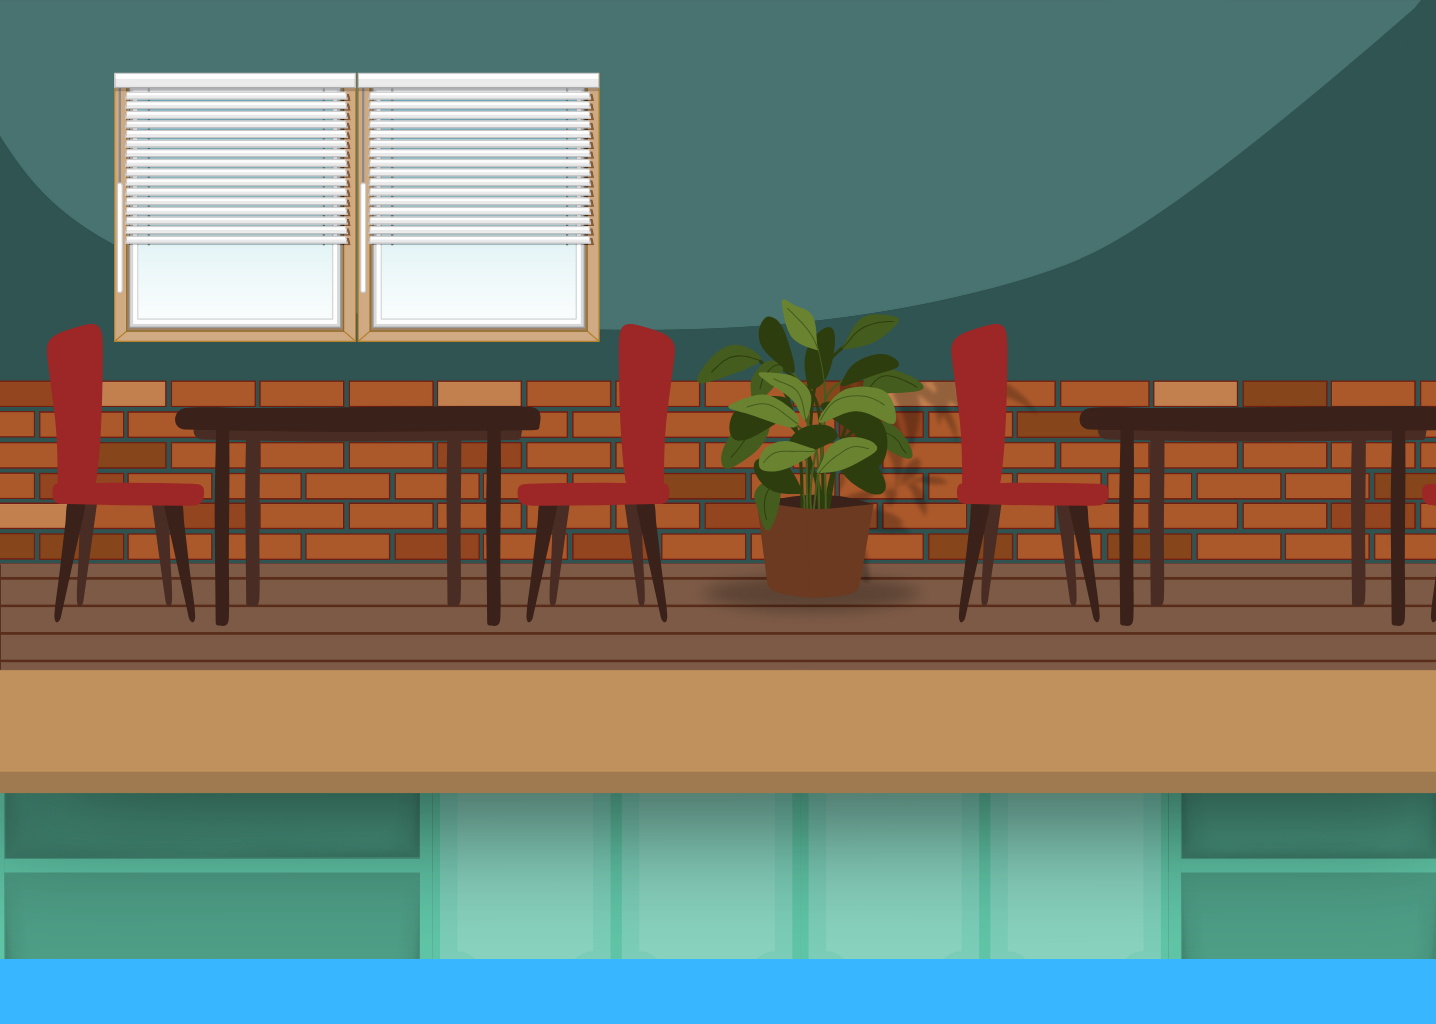
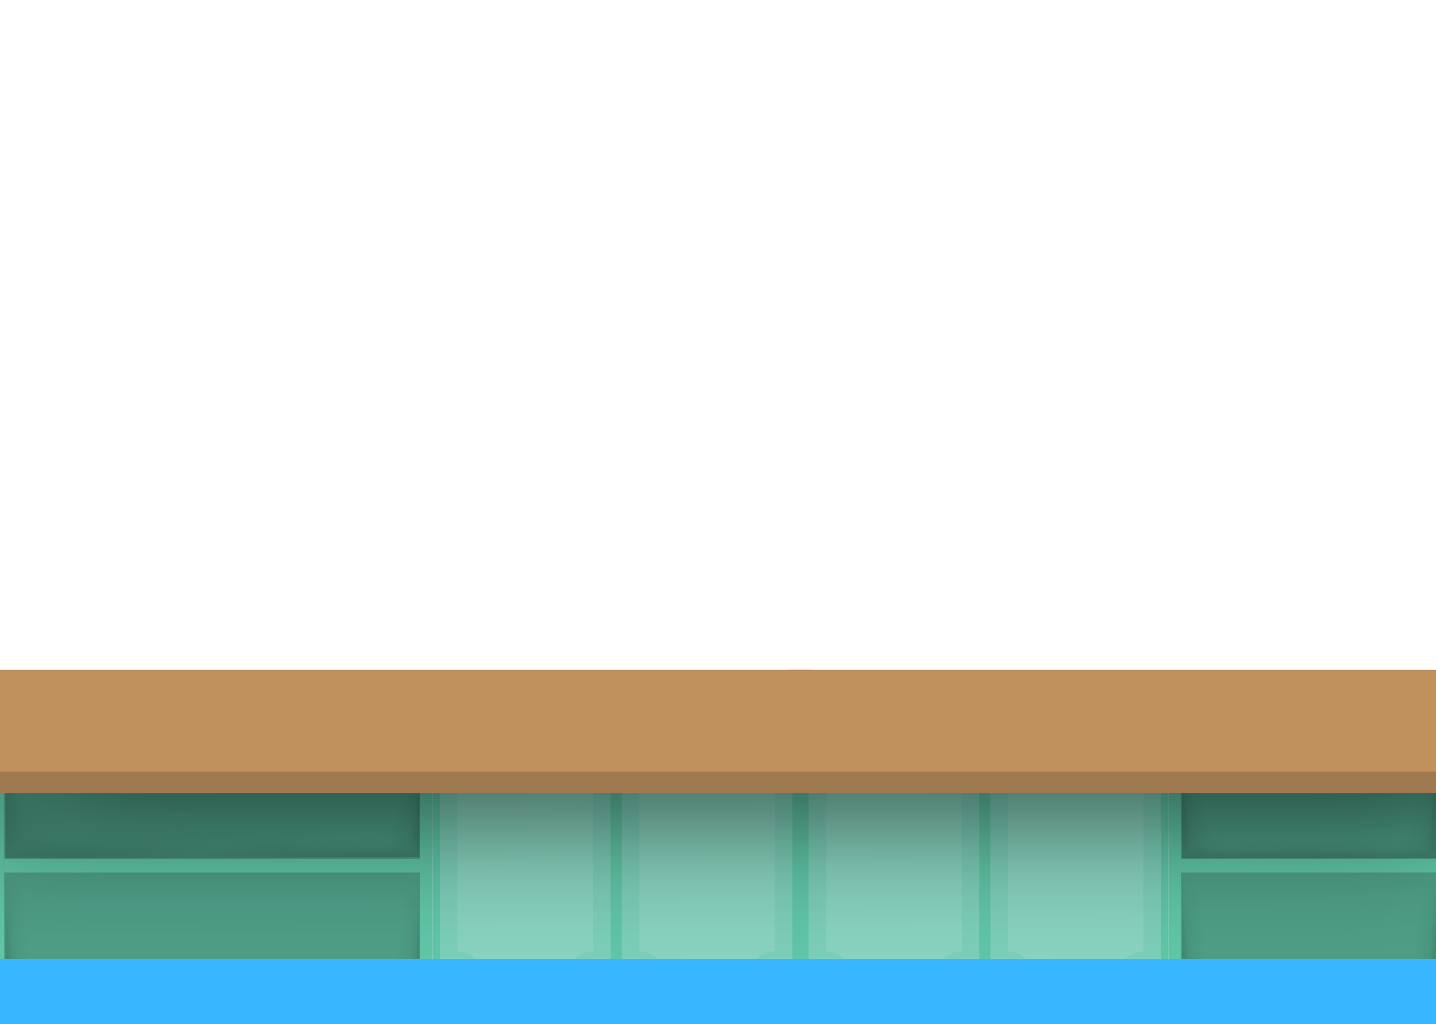
Difficulty select & new backgrounds

diff --git a/src/Components/KitchenScreen.tsx b/src/Components/KitchenScreen.tsx
@@ -8,15 +8,15 @@ interface KitchenScreenProps {
 }
 
 export const KitchenScreen = (props: KitchenScreenProps): JSX.Element => {
-    const [enabled, iconOn] = useState(false);
+    const ready = Controller.instance.dishesReady[0];
 
     function sendDish() {
-        if (enabled) {
+        if (ready) {
             const i = Controller.instance.getFree();
             if (i) {
                 Controller.instance.dishes[i] = Controller.instance.dishes[0];
                 Controller.instance.dishes[0] = [];
-                iconOn(false);
+                Controller.instance.dishesReady[0] = false;
             }
         }
     }
@@ -33,17 +33,17 @@ export const KitchenScreen = (props: KitchenScreenProps): JSX.Element => {
                 resizeMode="cover"
             />
             <vstack alignment='center' height='100%' width="100%">
-                <spacer height='65px'/>
+                <spacer height='55px'/>
                 {PastaShelf}
-                <spacer height='15px'/>
-                {ProteinShelf}
                 <spacer height='25px'/>
+                {ProteinShelf}
+                <spacer height='165px'/>
                 <hstack alignment='center middle' width='100%'>
-                    <text>Trash</text>
+                    <image url={'hole.png'} imageWidth={300} imageHeight={150} width='100px' height='50px'/>
                     <spacer width='35%'/>
                     <hstack gap='small' alignment='center middle'>
-                        {<Dish index={0} iconOn={iconOn}/>}
-                        <icon name={enabled ? 'send-fill' : 'send-outline'} size='large' onPress={sendDish}/>
+                        {<Dish index={0}/>}
+                        <icon name={ready ? 'send-fill' : 'send-outline'} size='large' onPress={sendDish}/>
                     </hstack>
                 </hstack>
                 <spacer grow/>

diff --git a/src/Posts/PinnedPost.tsx b/src/Posts/PinnedPost.tsx
@@ -1,4 +1,4 @@
-import {Context, Devvit, useState} from "@devvit/public-api";
+import {Context, Devvit, useForm, useState} from "@devvit/public-api";
 
 import {AssemblyStationScreen} from "../Components/AssemblyStationScreen.js";
 import {KitchenScreen} from "../Components/KitchenScreen.js";
@@ -16,9 +16,36 @@ interface PinnedPostProps {
 export const PinnedPost = (props: PinnedPostProps, context: Context): JSX.Element => {
     const [page, setPage] = useState('menu');
 
+    const controller: Controller = Controller.init(context);
+    const newGameForm = useForm(
+        {
+            title: 'New Game',
+            description: "Select Difficulty",
+            acceptLabel: 'Start',
+            fields: [
+                {
+                    type: 'select',
+                    name: 'difficulty',
+                    label: 'Difficulty',
+                    required: true,
+                    multiSelect: false,
+                    defaultValue: ['easy'],
+                    options: [
+                        {label: 'Easy', value: 'easy'},
+                        {label: 'Medium', value: 'medium'},
+                        {label: 'Hard', value: 'hard'},
+                    ]
+                },
+            ],
+        },
+        async (values) => {
+            controller.difficulty = values.difficulty[0];
+            setPage('counter');
+        }
+    );
+
     function startRun() {
-        const controller: Controller = Controller.init(context);
-        setPage('counter');
+        context.ui.showForm(newGameForm);
     }
 
     const Menu = (

diff --git a/src/Controller.ts b/src/Controller.ts
@@ -1,4 +1,4 @@
-import {Context, RedditAPIClient, RedisClient} from "@devvit/public-api";
+import {Context, RedditAPIClient, RedisClient, useForm} from "@devvit/public-api";
 import {IngredientData} from "./types.js";
 
 export class Controller {
@@ -7,13 +7,12 @@ export class Controller {
     readonly redis: RedisClient;
     readonly reddit?: RedditAPIClient;
 
-    public dishes: IngredientData[][];
+    public dishes: IngredientData[][] = [[], [], [], []];
+    public dishesReady: boolean[] = [false, false, false, false];
 
     private constructor(context: {redis: RedisClient, reddit?: RedditAPIClient}) {
         this.redis = context.redis;
         this.reddit = context.reddit;
-        this.selection = {type: '', ingredient: ''};
-        this.dishes = [[], [], [], []];
         this.free = [1, 2, 3];
     }
 
@@ -24,7 +23,10 @@ export class Controller {
         return Controller.instance;
     }
 
-    public selection: IngredientData;
+    public difficulty: string = 'easy';
+
+
+    public selection: IngredientData = {type: '', ingredient: ''};
     select(ingredient: IngredientData) {
         if (this.selection.ingredient == ingredient.ingredient) {
             this.selection = {type: '', ingredient: ''};

diff --git a/src/Components/AssemblyStationScreen.tsx b/src/Components/AssemblyStationScreen.tsx
@@ -23,13 +23,13 @@ export const AssemblyStationScreen = (props: AssemblyScreenProps, context: Conte
                 resizeMode="cover"
             />
             <vstack alignment='center' height='100%' width='100%'>
-                <spacer height='65px'/>
+                <spacer height='55px'/>
                 {SeasoningShelf}
-                <spacer height='15px'/>
+                <spacer height='25px'/>
                 {ToppingShelf}
-                <spacer height='15px'/>
+                <spacer height='35px'/>
                 {SauceShelf}
-                <spacer height='75px'/>
+                <spacer height='55px'/>
                 <hstack gap='large' alignment='center middle'>
                     <Dish index={1} iconOn={iconOn1}/>
                     <Dish index={2} iconOn={iconOn2}/>

diff --git a/src/Components/CounterScreen.tsx b/src/Components/CounterScreen.tsx
@@ -8,8 +8,17 @@ export const CounterScreen = (props: CounterScreenProps, context: Context): JSX.
     return (
         <zstack height="100%" width="100%">
             <image
-                url="Backgrounds/Counter.png"
+                url="Backgrounds/CounterBackground.png"
                 description="counter-background"
+                imageHeight={512}
+                imageWidth={718}
+                height="100%"
+                width="100%"
+                resizeMode="cover"
+            />
+            <image
+                url="Backgrounds/Counter.png"
+                description="counter"
                 imageHeight={512}
                 imageWidth={718}
                 height="100%"

diff --git a/src/Components/Dish.tsx b/src/Components/Dish.tsx
@@ -4,7 +4,6 @@ import {Controller} from "../Controller.js";
 
 interface DishProps {
     index: number,
-    iconOn: StateSetter<boolean>,
 }
 
 export const Dish = (props: DishProps): JSX.Element => {
@@ -15,7 +14,7 @@ export const Dish = (props: DishProps): JSX.Element => {
             return;
         const sel = Controller.instance.selection;
         Controller.instance.dishes[props.index].push(sel);
-        props.iconOn(true);
+        Controller.instance.dishesReady[0] = true;
         Controller.instance.select({type: '', ingredient: ''});
     }
 
